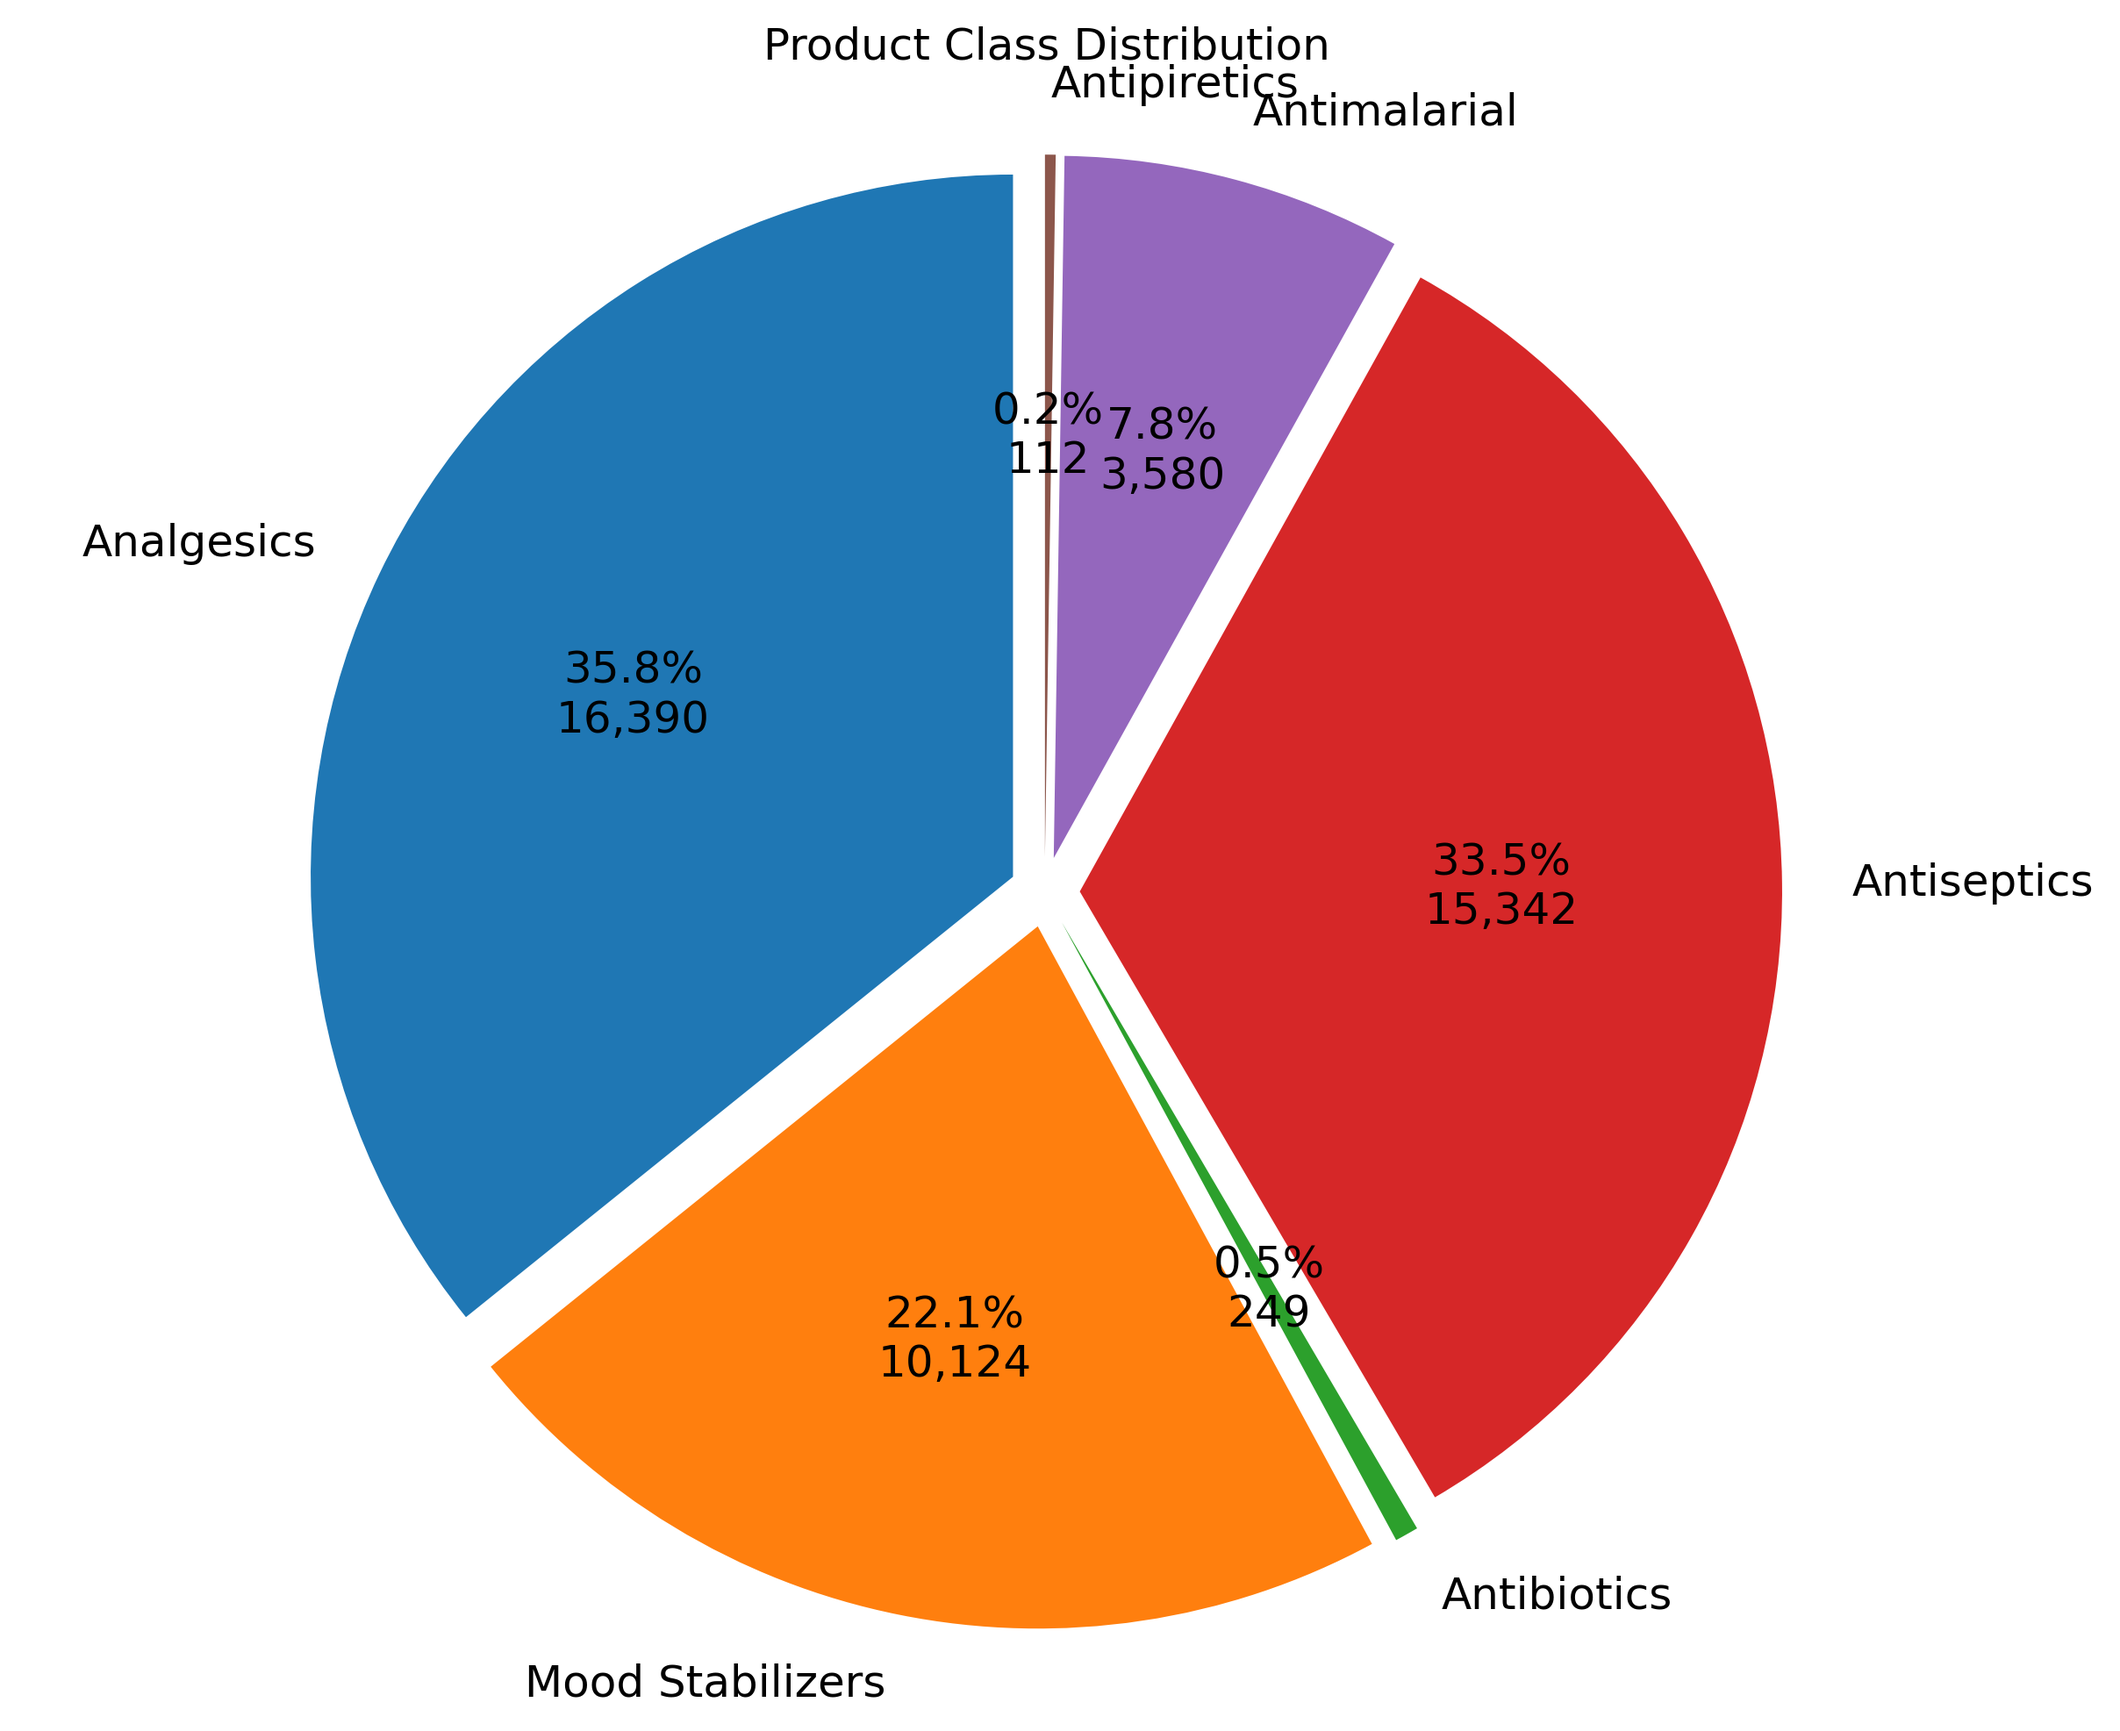
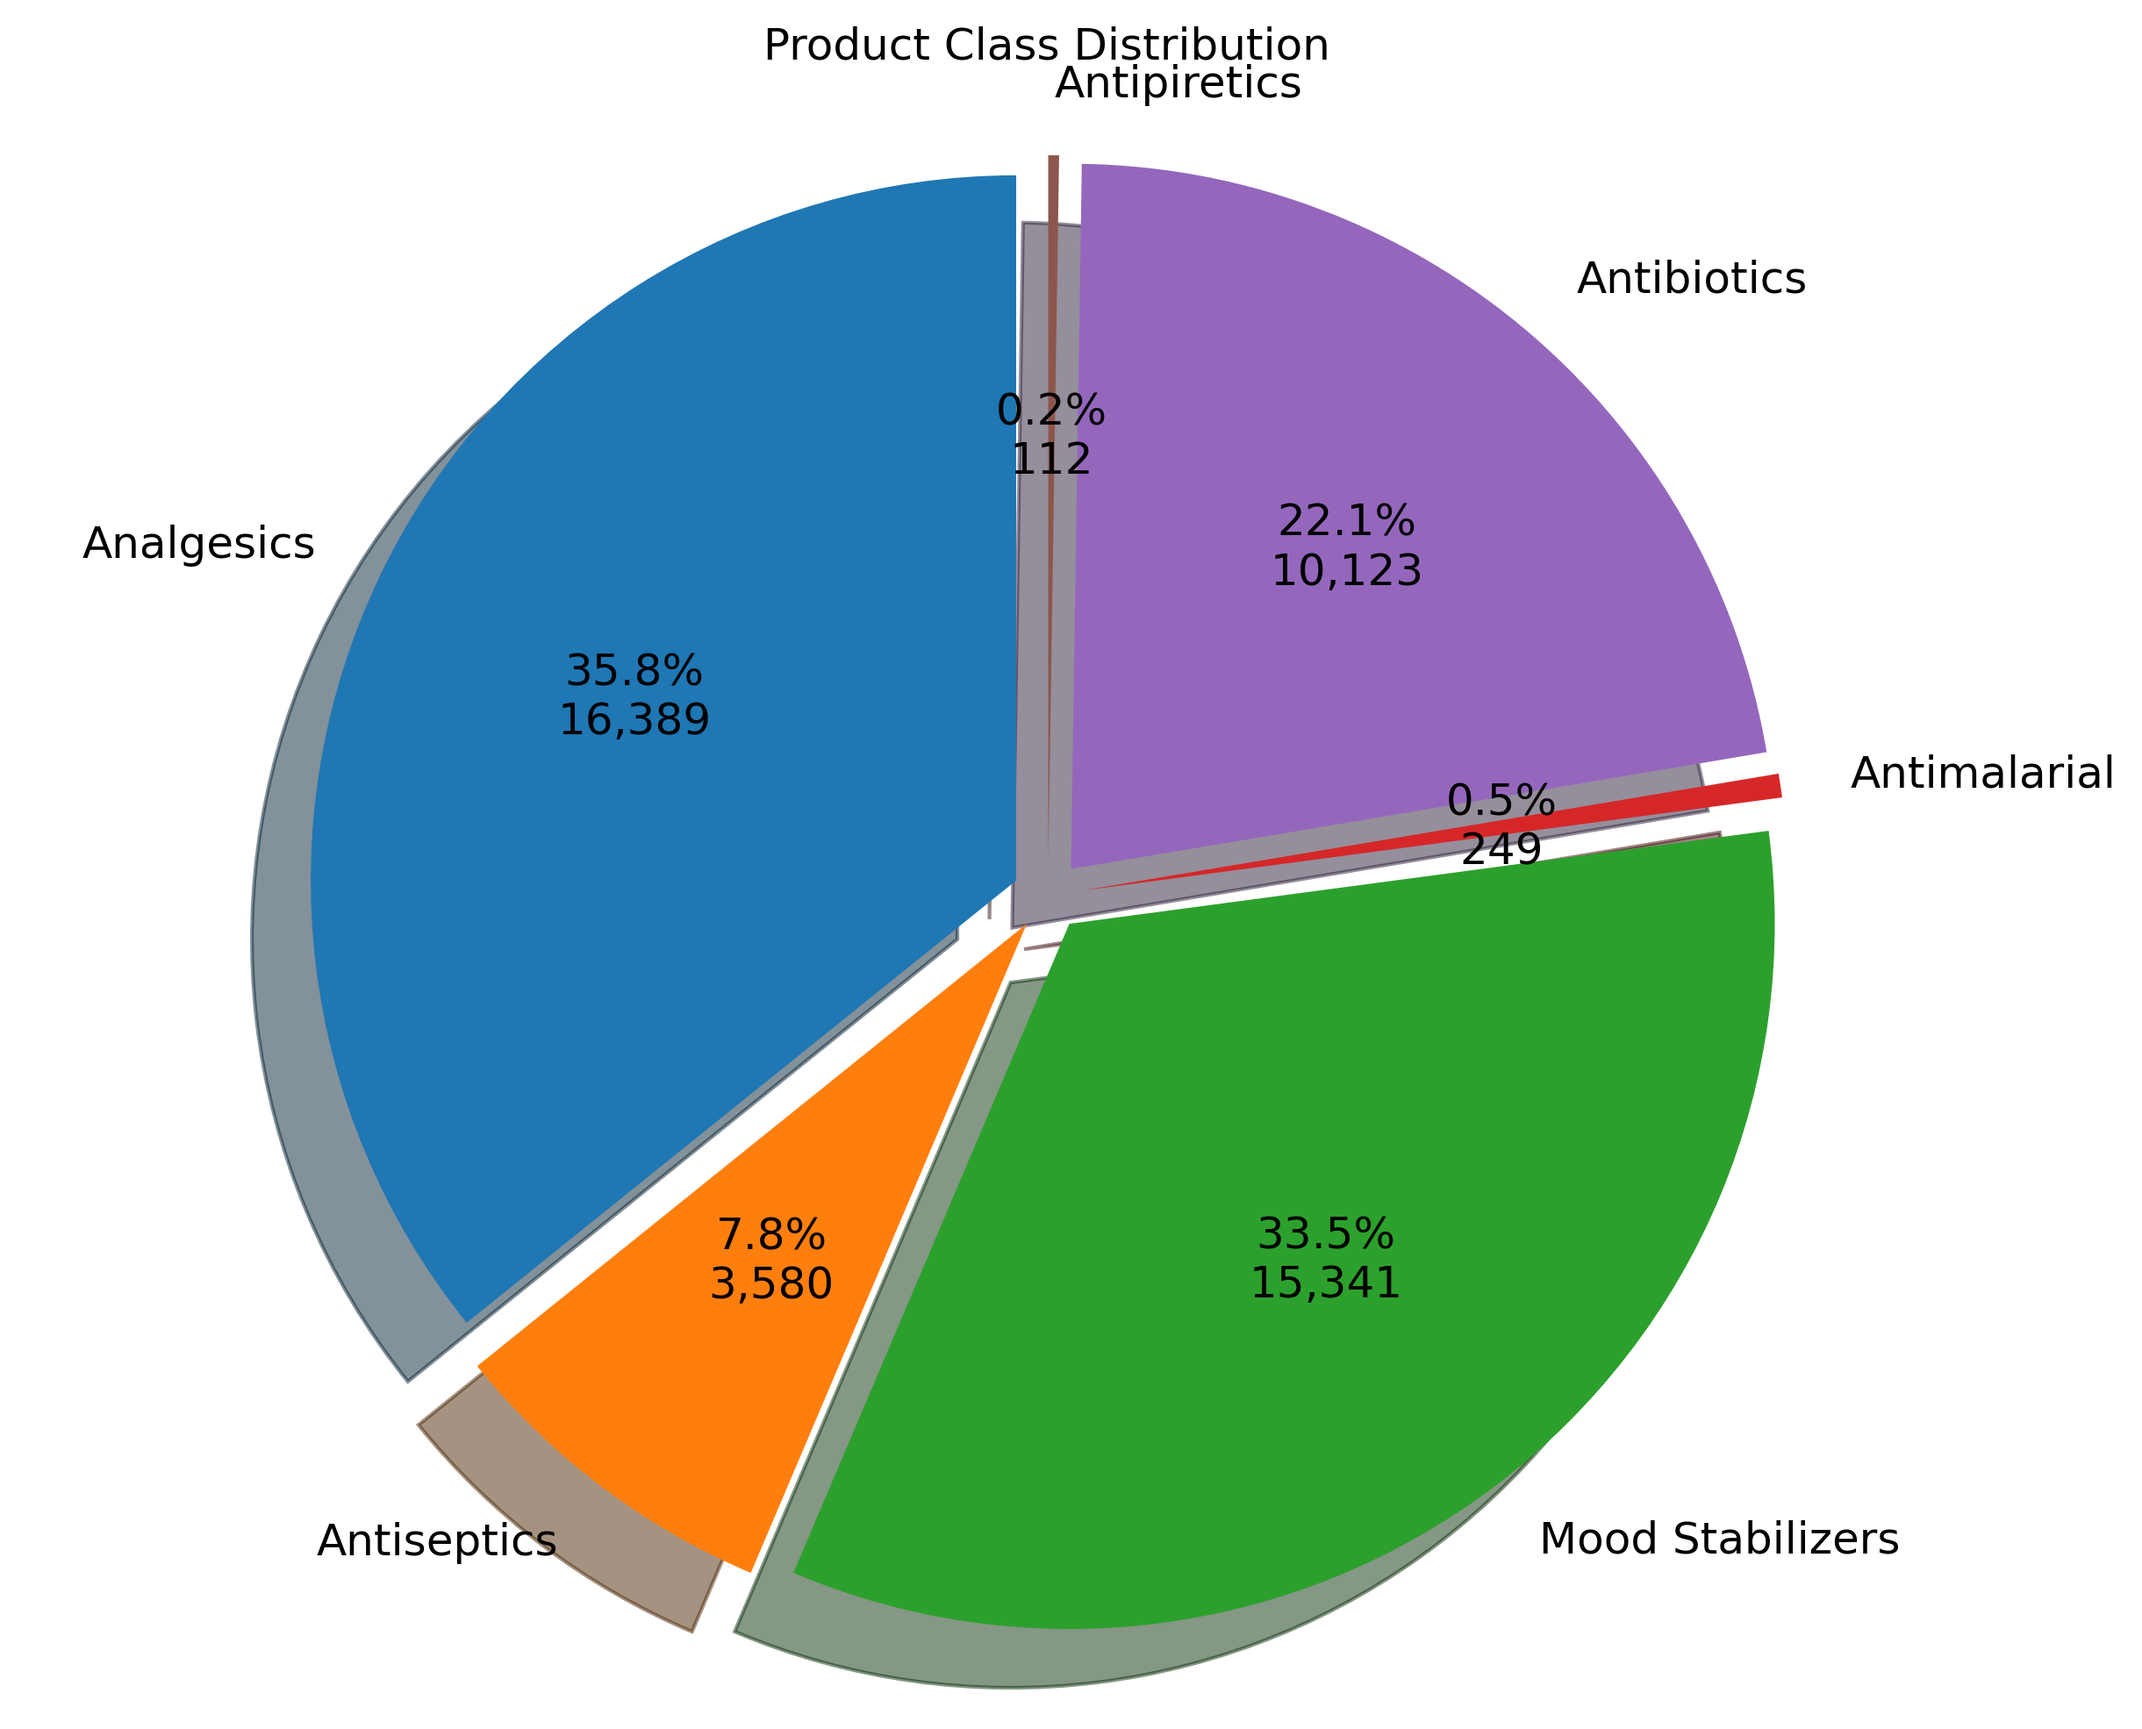
data visualization

diff --git a/data_visualization/review_data_visualization.py b/data_visualization/review_data_visualization.py
@@ -404,32 +404,39 @@ class ReviewDataVisualization:
         
         # 创建产品类别评论数量饼图
         plt.figure(figsize=(10, 8))
-        
+
         # 计算百分比
         total_count = class_counts['count'].sum()
         percentages = [(count / total_count) * 100 for count in class_counts['count']]
-        
+
+        # 按计数排序数据
         sorted_data = class_counts.sort_values('count', ascending=False).reset_index(drop=True)
 
-        # 交替大小排序
-        alternating_indices_1 = [i for i in range(len(sorted_data)) if i % 2 == 0]
-        alternating_indices_2 = [i for i in range(len(sorted_data)) if i % 2 != 0]
-        reordered_data = sorted_data.iloc[alternating_indices_1 + alternating_indices_2].reset_index(drop=True)
+        # 创建交替的大小排序
+        n = len(sorted_data)
+        alternating_indices = []
+        for i in range(n//2 + n%2):
+            alternating_indices.append(i)  # 添加一个大的
+            if i + (n//2 + n%2) < n:  # 确保不超出索引范围
+                alternating_indices.append(i + (n//2 + n%2))  # 添加一个小的
+
+        # 按照新顺序排列数据
+        reordered_data = sorted_data.iloc[alternating_indices].reset_index(drop=True)
 
         # 创建自定义标签函数
         def my_autopct(pct):
-            index = percentages.index(min(percentages, key=lambda x: abs(x-pct)))
-            val = class_counts['count'].iloc[index]
+            val = int(pct/100.*total_count)
             return f"{pct:.1f}%\n{val:,.0f}"
-        
-        plt.pie(reordered_data['count'], labels=class_counts['Product Class'], 
-                autopct=my_autopct, startangle=90, 
-                explode=[0.05] * len(class_counts),
+
+        # 使用重新排序的数据绘制饼图
+        plt.pie(reordered_data['count'], labels=reordered_data['Product Class'], 
+                autopct=my_autopct, startangle=90, shadow=True, 
+                explode=[0.05] * len(reordered_data),
                 textprops={'fontsize': 12})
-        
+
         plt.axis('equal')  # 确保饼图是圆的
         plt.title("Product Class Distribution")
-        
+
         # 保存图表
         output_path = os.path.join(directory, "product_class_distribution_pie.png")
         plt.savefig(output_path, dpi=300, bbox_inches='tight')
